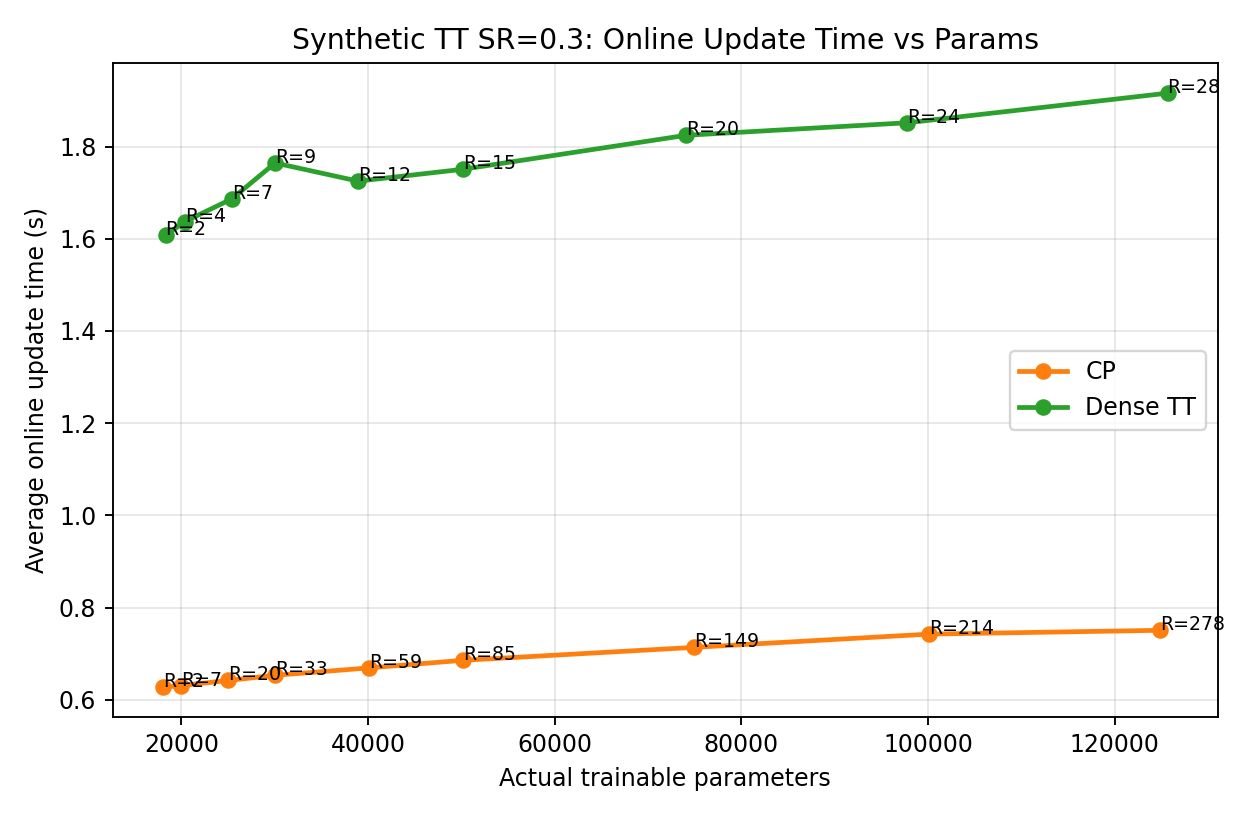
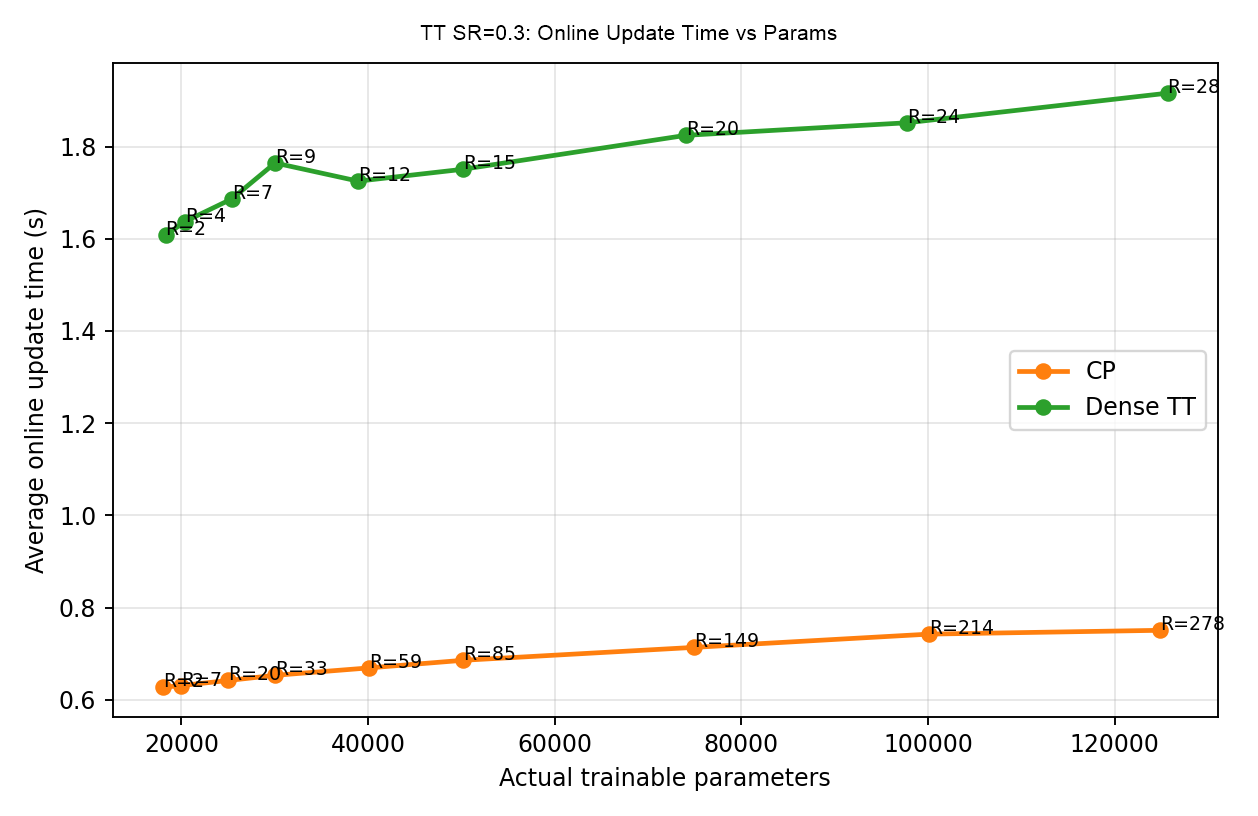
Remove Synthetic from update-time plot title

Changed region(s): [[0.217, 0.0306, 0.837, 0.0613]]

diff --git a/oftd/build_synthetic_tt_param_budget_package.py b/oftd/build_synthetic_tt_param_budget_package.py
@@ -477,7 +477,7 @@ def aggregate_and_plot(raw_path: Path, out_dir: Path, target_nre: float):
                 (row["actual_params"], row["avg_update_time_s"]),
                 fontsize=8,
             )
-    ax.set_title("Synthetic TT SR=0.3: Online Update Time vs Params")
+    ax.set_title("TT SR=0.3: Online Update Time vs Params")
     ax.set_xlabel("Actual trainable parameters")
     ax.set_ylabel("Average online update time (s)")
     ax.grid(alpha=0.3)
